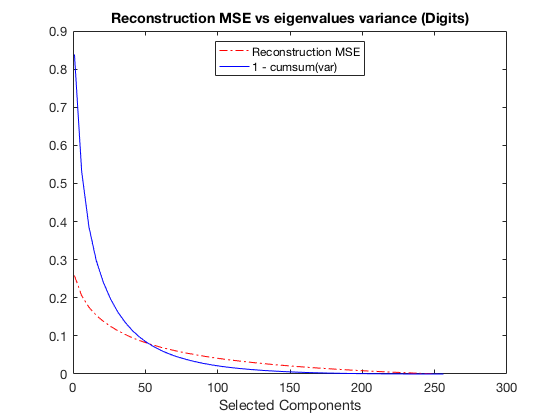
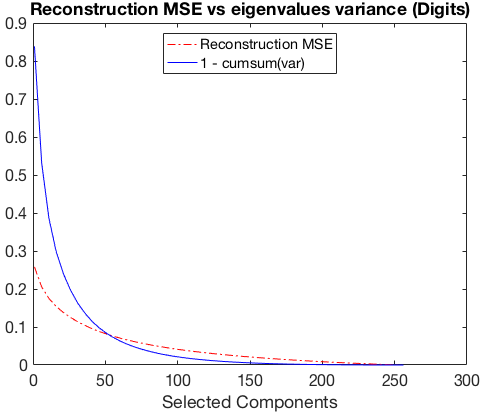
Added rec error and variance analysis to the report

diff --git a/report/main.tex b/report/main.tex
@@ -254,133 +254,84 @@
 \newpage
 \section{Unsupervised Learning}
   \subsection{Principal Component Analysis}
+  The goal of this section is to understand the meaning and consequences of using
+  PCA, applied to the \emph{threes} dataset. \autoref{fig:first_task} summarizes the data:
+  on the right I present the average \emph{three}, on the left the eigenvalues of the whole
+  dataset, scaled over their sum. The first components explain most of the variance:
+  just 12 explain 63\%, and with 50 it adds up to 90\%.  Therefore, using 50 
+  components or more should already deliver a good reconstruction of the data.
+  \autoref{fig:digits_rec} confirms it: with more than 50 components
+  reconstruction  \emph{MSE} is already under \num{0.1}.  On the other hand, 
+  on random data variance spreads more uniformly across the components, as 
+  the green line in \autoref{fig:first_task} shows.
+  It takes more components to have both decent reconstruction error and summed 
+  variance. For example, 12 components only explain 34\% of the variance, and
+  deliver \num{0.8} $MSE$ on the reconstruction. Finally, both digits and random
+  data show a strong correlation between the sum of variance of the last k left-out
+  components and the reconstruction error, displayed in \autoref{fig:regression}. 
+  The shape of the curve suggests that the relationship between them is logarithmic,
+  not linear.
+  
   \begin{figure}[h]
     \centering
-    \begin{subfigure}[t]{0.19\linewidth}
-      \includegraphics[width=1\linewidth]{./lab3/PCA/single_three/original.png}
-      \caption{}
-      \label{fig:perfect_fit}
+    \begin{subfigure}[t]{0.4\linewidth}
+      \includegraphics[width=1\linewidth]{./lab3/PCA/digits_vs_random_trace.png}
+      \label{fig:trace_compared}
     \end{subfigure}
-    \begin{subfigure}[t]{0.19\linewidth}
-      \includegraphics[width=1\linewidth]{./lab3/PCA/single_three/PC1.png}
-      \caption{}
-      \label{fig:overfit}
+    \begin{subfigure}[t]{0.3\linewidth}
+      \includegraphics[width=1\linewidth, height=4.75cm]{./lab3/PCA/mean_three.png}
+      \label{fig:mean_three}
     \end{subfigure}
-    \begin{subfigure}[t]{0.19\linewidth}
-      \includegraphics[width=1\linewidth]{./lab3/PCA/single_three/PC2.png}
-      \caption{}
-      \label{fig:underfit}
-    \end{subfigure}
-    \begin{subfigure}[t]{0.19\linewidth}
-      \includegraphics[width=1\linewidth]{./lab3/PCA/single_three/PC3.png}
-      \caption{}
-      \label{fig:underfit}
-    \end{subfigure}
-    \begin{subfigure}[t]{0.19\linewidth}
-      \includegraphics[width=1\linewidth]{./lab3/PCA/single_three/PC4.png}
-      \caption{}
-      \label{fig:underfit}
-    \end{subfigure}
-    \begin{subfigure}[t]{0.19\linewidth}
-      \includegraphics[width=1\linewidth]{./lab3/PCA/single_three/PC16.png}
-      \caption{}
-      \label{fig:underfit}
-    \end{subfigure}
-    \begin{subfigure}[t]{0.19\linewidth}
-      \includegraphics[width=1\linewidth]{./lab3/PCA/single_three/PC50.png}
-      \caption{}
-      \label{fig:underfit}
-    \end{subfigure}
-    \begin{subfigure}[t]{0.19\linewidth}
-      \includegraphics[width=1\linewidth]{./lab3/PCA/single_three/PC64.png}
-      \caption{}
-      \label{fig:underfit}
-    \end{subfigure}
-    \begin{subfigure}[t]{0.19\linewidth}
-      \includegraphics[width=1\linewidth]{./lab3/PCA/single_three/PC128.png}
-      \caption{}
-      \label{fig:underfit}
-    \end{subfigure}
-    \begin{subfigure}[t]{0.19\linewidth}
-      \includegraphics[width=1\linewidth]{./lab3/PCA/single_three/PC256.png}
-      \caption{}
-      \label{fig:underfit}
-    \end{subfigure}
-    \caption{}
-    \label{fig:threes}
+    \caption{First task of the exercise: computing the mean three (right), and 
+    plotting the eigenvalues (left). The digits eigenvalues have been compared
+  to those of a random, multivariate Gaussian distribution, in green.}
+    \label{fig:first_task}
   \end{figure}
-
-  \begin{figure}[h]
-    \centering
-    \begin{subfigure}[t]{0.49\linewidth}
-      \includegraphics[width=1\linewidth]{./lab3/PCA/mosaics/PC_1_4_small.png}
-      \caption{Validation set avoids overfitting}
-      \label{fig:perfect_fit}
-    \end{subfigure}
-    \begin{subfigure}[t]{0.49\linewidth}
-      \includegraphics[width=1\linewidth]{./lab3/PCA/mosaics/PC_16_256_small.png}
-      \caption{Overfit. 120 Neurons}
-      \label{fig:overfit}
-    \end{subfigure}
-    \caption{}
-    \label{fig:validation}
-  \end{figure}
-
   \begin{figure}[h]
     \begin{adjustwidth}{-1cm}{-1cm}
     \centering
     \begin{subfigure}[t]{0.3\linewidth}
       \includegraphics[width=1\linewidth]{./lab3/PCA/rec_vs_invsum_gauss.png}
-      \caption{Validation set avoids overfitting}
-      \label{fig:perfect_fit}
+      \caption{Gaussians dataset}
+      \label{fig:gauss_rec}
     \end{subfigure}
     \begin{subfigure}[t]{0.3\linewidth}
-      \includegraphics[width=1\linewidth]{./lab3/PCA/rec_vs_invsum_digits.png}
-      \caption{Validation set avoids overfitting}
-      \label{fig:perfect_fit}
+      \includegraphics[width=1\linewidth, height=4.65cm]{./lab3/PCA/rec_vs_invsum_digits.png}
+      \caption{Digits dataset}
+      \label{fig:digits_rec}
     \end{subfigure}
     \begin{subfigure}[t]{0.3\linewidth}
-      \includegraphics[width=1\linewidth, height=4cm]{./lab3/PCA/regression_digits.png}
-      \caption{Overfit. 120 Neurons}
-      \label{fig:overfit}
+      \includegraphics[width=1\linewidth, height=4.65cm]{./lab3/PCA/regression_digits.png}
+      \caption{Reconstruction MSE linear fit}
+      \label{fig:regression}
     \end{subfigure}
     \end{adjustwidth}
-    \caption{hola hola hola hola hola hola hola hola hola hola hola hola hola hola hola hola hola
-    hola hola hola hola hola hola hola hola hola hola hola hola hola }
-    \label{fig:validation}
+    \caption{Plot of the reconstruction error for each number of selected $k$ components (red),
+    against the sum of the variance of the last $256-k$ components (blue), on 
+  different datasets. Right figure plots their linear fit.}
+    \label{fig:rec_vs_cumsum}
   \end{figure}
 
+  \paragraph{Visual interpretation} 
   \begin{figure}[h]
     \centering
-    \begin{subfigure}[t]{0.4\linewidth}
-      \includegraphics[width=1\linewidth]{./lab3/PCA/rec_vs_invsum_gauss.png}
-      \caption{Validation set avoids overfitting}
-      \label{fig:perfect_fit}
+    \begin{subfigure}[t]{0.49\linewidth}
+      \includegraphics[width=1\linewidth]{./lab3/PCA/mosaics/PC_1_4_small.png}
     \end{subfigure}
-    \begin{subfigure}[t]{0.4\linewidth}
-      \includegraphics[width=1\linewidth]{./lab3/PCA/rec_vs_invsum_digits.png}
-      \caption{Validation set avoids overfitting}
-      \label{fig:perfect_fit}
+    \begin{subfigure}[t]{0.49\linewidth}
+      \includegraphics[width=1\linewidth]{./lab3/PCA/mosaics/PC_16_256_small.png}
     \end{subfigure}
-    \begin{subfigure}[t]{0.4\linewidth}
-      \includegraphics[width=1\linewidth]{./lab3/PCA/regression_digits.png}
-      \caption{Overfit. 120 Neurons}
-      \label{fig:overfit}
-    \end{subfigure}
-    \begin{subfigure}[t]{0.4\linewidth}
-      \includegraphics[width=1\linewidth]{./lab3/PCA/regression_gaussians.png}
-      \caption{Overfit. 120 Neurons}
-      \label{fig:overfit}
-    \end{subfigure}
-    \caption{hola hola hola hola hola hola hola hola hola hola hola hola hola hola hola hola hola
-    hola hola hola hola hola hola hola hola hola hola hola hola hola }
-    \label{fig:validation}
+    \caption{Reconstruction of four different samples (columns) with increasing
+      number of components (rows). Top row of each table contains the 
+    original samples. Vertical labels indicate the number of components}
+    \label{fig:threes}
   \end{figure}
+
 
 
   \subsection{Self Organizing Map}
   %https://nl.mathworks.com/help/nnet/ug/cluster-with-self-organizing-map-neural-network.html
-  \blindtext
+  \Blindtext
 
 
 

diff --git a/Session3/PCA/PCA_digits.m b/Session3/PCA/PCA_digits.m
@@ -82,26 +82,26 @@ end
 figure;
 bar(eigvals);
 title("Eigenvalues scaled")
-set(gca,'FontSize', 13); 
+set(gca,'FontSize', 14); 
 
 %% Reconstruction error vs 1 - k_cumsum(var)
 figure;
 digits_error = error_by_pc(threes,1,256,5, true);
 title('Reconstruction MSE vs eigenvalues variance (Digits)')
-set(gca,'FontSize', 13);
+set(gca,'FontSize', 16);
 
 %% Random data: rec error vs 1 - k_cumsum(var)
 gauss = randn(50,500);
 g_error = error_by_pc(gauss, 1, 50, 1, true);
 title('Reconstruction MSE vs eigenvalues variance (Gaussians)')
-set(gca,'FontSize', 13);
+set(gca,'FontSize', 16);
 
 %% Regression
 % note: second col (y axis) is the MSE error, third the cumsum
 % regression: first target (x axis), later output (y axis)
-plotregression(g_error(:,3), g_error(:,2), 'Gaussians'),
-xlabel("Sum(k-eigvals)"), ylabel("Reconstruction Error")
-set(gca,'FontSize', 13);
+plotregression(digits_error(:,3), digits_error(:,2), 'Digits - Rec. Error fit'),
+xlabel("1 - Sum(k-eigvals)"), ylabel("Reconstruction Error")
+set(gca,'FontSize', 16);
 
 %% Random trace vs digit trace
 [~, ~, evals_threes] = mypca(threes', 50);
@@ -110,8 +110,18 @@ plot(1:50, evals_gauss, 'g', 1:50, evals_threes, 'b')
 legend("Random eigenvalues", "Digits eigenvalues", 'Location', 'north'),
 xlabel('Selected components'), ylabel('Scaled eigenvalues (variance)'),
 title("Digits vs Random trace"),
-set(gca, 'FontSize', 13)
+set(gca, 'FontSize', 16)
 
+%% rec error vs cumsum - digits
+figure;
+digits_cumsum = error_by_pc(threes,1,256,5, false);
+title('Reconstruction MSE vs eigenvalues variance (Digits)')
+set(gca,'FontSize', 14);
+%% rec error vs cumsum - gauss
+figure;
+gauss_cumsum = error_by_pc(gauss,2,50,2, false);
+title('Reconstruction MSE vs eigenvalues variance (Digits)')
+set(gca,'FontSize', 14);
 %%%%%%%%%%%%%%%%%%%%%%%%%%%%%%%%%%
 %%  Component meaning           %%
 %%%%%%%%%%%%%%%%%%%%%%%%%%%%%%%%%%
